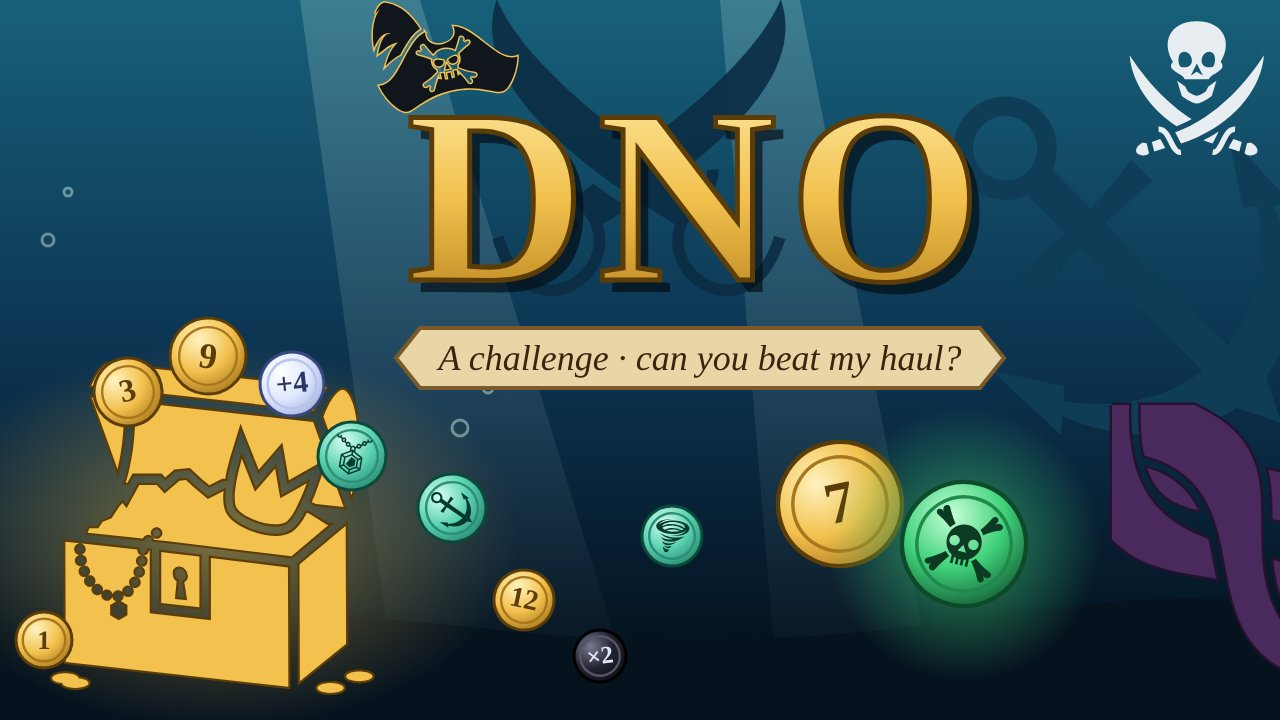
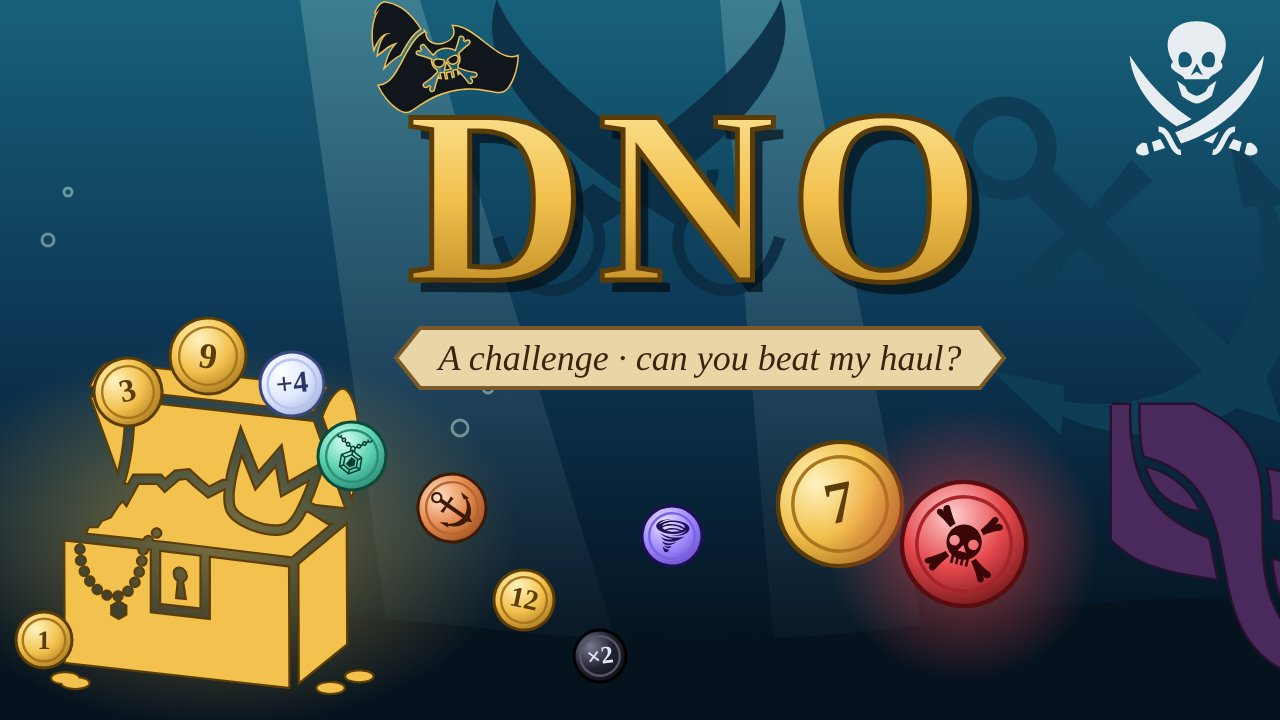
Сборка: красная проклятая монета

Changed region(s): [[0.6562, 0.6111, 0.8438, 0.9167], [0.3125, 0.6417, 0.4062, 0.7639], [0.5, 0.7028, 0.5625, 0.7944]]

diff --git a/assets/index-CikxutIh.css b/assets/index-CikxutIh.css
@@ -1,0 +1,1 @@
+:root{--deep:#061a2b;--mid:#0c3350;--sea:#17607a;--foam:#e8f4f2;--muted:#8fb3c4;--gold:#f2c14e;--gold-dark:#9c6a14;--curse:#e5484d;--cursed-coin:#e5484d;--pearl:#dfe7ff;--action:#5ad1b0;--anchor:#e38a4f;--whirl:#a28bff;--tentacle:#d65c9e;--panel:#ffffff0d;--line:#ffffff17;--lightningcss-light: ;--lightningcss-dark:initial;color-scheme:dark}*{box-sizing:border-box}html{-webkit-text-size-adjust:100%}body{background:linear-gradient(180deg, var(--mid), var(--deep) 70%);min-height:100dvh;color:var(--foam);-webkit-tap-highlight-color:transparent;margin:0;font:15px/1.4 system-ui,-apple-system,Segoe UI,Roboto,sans-serif}#app{max-width:480px;padding:12px 16px calc(16px + env(safe-area-inset-bottom));flex-direction:column;gap:10px;min-height:100dvh;margin:0 auto;display:flex}.icon{vertical-align:-.2em;flex:none;width:1.15em;height:1.15em}header{justify-content:space-between;align-items:center;gap:8px;display:flex}header .meta{text-align:right;white-space:nowrap;text-overflow:ellipsis;min-width:0;margin-left:auto;overflow:hidden}h1{flex:none}button.sound{border:1px solid var(--line);background:0 0;border-radius:10px;flex:none;width:36px;min-height:36px;padding:0;font-size:16px}h1{letter-spacing:1px;color:var(--gold);align-items:center;gap:6px;margin:0;font:700 20px/1 Georgia,Times New Roman,serif;display:flex}h2{color:var(--gold);margin:4px 0 0;font:700 20px/1.2 Georgia,Times New Roman,serif}h3{color:var(--muted);margin:6px 0 0;font-size:15px;font-weight:600}.meta{color:var(--muted);margin:0;font-size:13px}.center{text-align:center;width:100%}.rules{color:var(--muted);margin:0;font-size:14px}.hero{aspect-ratio:16/9;object-fit:cover;width:calc(100% + 32px);height:auto;margin:-12px -16px 0;display:block;-webkit-mask-image:linear-gradient(#000 75%,#0000);mask-image:linear-gradient(#000 75%,#0000)}.card-box{background:var(--panel);border:1px solid var(--line);border-radius:16px;flex-direction:column;gap:10px;padding:14px;display:flex}.card-box p{color:var(--muted);margin:0}.welcome{background:#f2c14e12;border-color:#f2c14e80}button.daily{text-align:left;background:linear-gradient(135deg, #f7d77a, var(--gold) 50%, #d9a63a);align-items:center;gap:12px;min-height:64px;padding:10px 16px;display:flex}button.daily .icon{width:34px;height:34px;color:var(--deep)}button.daily span{flex-direction:column;display:flex}button.daily small{opacity:.8;font-size:12px;font-weight:500}.links{justify-content:center;gap:18px;display:flex}button.link{min-height:40px;color:var(--muted);text-underline-offset:3px;background:0 0;flex:none;padding:0 4px;font-size:14px;font-weight:500;text-decoration:underline}.seat{background:var(--panel);border:1px solid var(--line);border-radius:12px;padding:8px 10px;transition:border-color .2s,opacity .2s;position:relative}.seat.active{border-color:var(--gold);box-shadow:0 0 0 1px #f2c14e59,0 0 18px #f2c14e26}.seat.out{opacity:.72}.seat.cursed{border-color:var(--curse)}.seat.me{background:#f2c14e14}.seat-head{justify-content:space-between;align-items:center;gap:8px;font-size:14px;display:flex}.seat-head b{text-overflow:ellipsis;white-space:nowrap;align-items:center;gap:4px;min-width:0;font-weight:600;display:flex;overflow:hidden}.icon.ava{width:22px;height:22px;color:var(--foam);background:#ffffff1a;border-radius:50%;flex:none;padding:2px}.seat.cursed .icon.ava{color:var(--curse)}.status{color:var(--muted);font-size:12px}.score{flex:none;align-items:center;gap:8px;display:flex}.round{color:var(--action);font-variant-numeric:tabular-nums;font-size:13px;font-weight:600}.round.bad{color:var(--curse)}.total{min-width:44px;color:var(--gold);font-variant-numeric:tabular-nums;justify-content:flex-end;align-items:center;gap:3px;font-weight:700;display:inline-flex}.total .icon{width:14px;height:14px}.react{pointer-events:none;font-size:26px;animation:2.2s ease-out forwards pop;position:absolute;top:-14px;right:10px}@keyframes pop{0%{opacity:0;transform:scale(.4)translateY(8px)}12%{opacity:1;transform:scale(1.15)}80%{opacity:1}to{opacity:0;transform:translateY(-16px)}}.cards{flex-wrap:wrap;gap:5px;min-height:32px;margin-top:6px;display:flex}.card{color:#5c3d08;background:radial-gradient(circle at 35% 30%, #fff3c0, var(--gold) 45%, var(--gold-dark));border-radius:16px;flex:none;place-items:center;min-width:32px;height:32px;padding:0 7px;font:700 15px/1 Georgia,Times New Roman,serif;display:inline-grid;box-shadow:inset 0 0 0 2px #5c3d0859}.card .icon{width:18px;height:18px}.card.pearl{color:#2a3566;background:radial-gradient(circle at 35% 30%, #fff, var(--pearl) 50%, #9aa8d6);box-shadow:inset 0 0 0 2px #2a356640}.card.double{color:var(--pearl);background:radial-gradient(circle at 35% 30%,#6b6b80,#1c1c28 60%);box-shadow:inset 0 0 0 2px #dfe7ff59}.card.charm,.card.action{color:#063a2e;background:radial-gradient(circle at 35% 30%, #d6fff2, var(--action) 55%, #2a8f75)}.card.chest{color:#5c3d08}.card.ghost{color:var(--foam);box-shadow:inset 0 0 0 1px var(--line);background:#ffffff14}.card.dup{color:#fff0f0;background:radial-gradient(circle at 35% 30%, #ffd0d0, var(--cursed-coin) 40%, #5a0d10);box-shadow:0 0 10px #e5484da6}.card.fresh{animation:.35s ease-out drop}@keyframes drop{0%{opacity:0;transform:translateY(-14px)scale(1.25)}}.feed{flex-direction:column;justify-content:flex-end;gap:2px;min-height:4.6em;margin:0;padding:0;list-style:none;display:flex}.feed li{color:var(--muted);opacity:.65;align-items:center;gap:6px;font-size:13px;display:flex}.feed li.last{opacity:1;color:var(--foam)}.feed li.bad{color:#ff9a9d}.feed li.good .icon,.feed li.action .icon{color:var(--action)}.feed li.bad .icon{color:var(--curse)}.coach{background:#5ad1b01a;border:1px solid #5ad1b073;border-radius:14px;align-items:flex-start;gap:10px;padding:10px 12px;animation:.3s ease-out drop;display:flex}.coach .icon{width:30px;height:30px;color:var(--action)}.coach p{margin:0;font-size:14px}.hud{color:var(--muted);justify-content:space-between;font-size:13px;display:flex}.hud strong{color:var(--foam);font-variant-numeric:tabular-nums}.hud .risk-high{color:var(--curse)}.toast{text-align:center;color:var(--gold);min-height:20px;font-weight:600}.toast:empty{min-height:0}.controls{flex-wrap:wrap;gap:8px;margin-top:auto;display:flex}.controls.stack{flex-direction:column}.controls>p{text-align:center;width:100%;margin:0}.row{gap:8px;width:100%;display:flex}.row.wrap{flex-wrap:wrap}.row.wrap button{flex:30%;min-height:44px;padding:0 6px;font-size:15px}button{min-height:52px;font:inherit;cursor:pointer;background:var(--gold);color:var(--deep);border:0;border-radius:14px;flex:1;justify-content:center;align-items:center;gap:8px;padding:0 12px;font-size:17px;font-weight:600;transition:transform 80ms,opacity .2s;display:inline-flex}button:active:not(:disabled){transform:scale(.97)}button.secondary{background:var(--mid);color:var(--foam);border:1px solid var(--muted)}button:disabled{opacity:.35;cursor:default}button:focus-visible{outline:3px solid var(--foam);outline-offset:2px}button.pulse{animation:1.6s ease-in-out infinite pulse}@keyframes pulse{0%,to{box-shadow:0 0 #f2c14e8c}50%{box-shadow:0 0 0 7px #f2c14e00}}.choose,.result-line{justify-content:center;align-items:center;gap:6px;width:100%;margin:0;font-weight:600;display:flex}.result-line{color:var(--gold);font-size:17px}.reacts{justify-content:space-between;gap:4px;display:flex}button.emoji{background:var(--panel);border:1px solid var(--line);min-height:40px;padding:0;font-size:20px}.join{gap:8px;width:100%;display:flex}.join button{flex:1}.join input{border:1px solid var(--muted);min-width:0;min-height:52px;color:var(--foam);font:inherit;text-transform:uppercase;letter-spacing:2px;background:#ffffff0f;border-radius:14px;flex:1.4;padding:0 14px;font-size:17px}.join input::placeholder{text-transform:none;letter-spacing:0;color:var(--muted)}.code{color:var(--gold);letter-spacing:2px}#timer{color:var(--gold);font-weight:600}.howto{flex-direction:column;gap:10px;margin:0;padding:0;list-style:none;display:flex}.howto li{align-items:center;gap:12px;font-size:14px;display:flex}.result{text-align:center;padding:18px 0 6px}.result p{margin:0}.result .big{color:var(--gold);justify-content:center;align-items:center;gap:10px;font:700 56px/1.1 Georgia,Times New Roman,serif;display:flex}.result .big .icon{width:44px;height:44px}.board{flex-direction:column;gap:4px;margin:0;padding:0;list-style:none;display:flex}.board li{background:var(--panel);border-radius:10px;align-items:center;gap:10px;padding:6px 10px;display:flex}.board li.me{background:#f2c14e24}.board .pos{width:20px;color:var(--muted);font-variant-numeric:tabular-nums}.board .who{text-overflow:ellipsis;white-space:nowrap;flex:1;align-items:center;gap:6px;display:flex;overflow:hidden}.board b{color:var(--gold);font-variant-numeric:tabular-nums}.seat.cursed .card:not(.dup){opacity:.38;filter:grayscale(.7)}.seat.just-cursed{animation:.5s ease-in-out seat-shake,.9s ease-out curse-flash}.seat.just-cursed .card:not(.dup){animation:.9s cubic-bezier(.5,0,.8,.4) both sink}.seat.just-cursed .card:not(.dup):nth-child(2n){animation-delay:80ms}.seat.just-cursed .card:not(.dup):nth-child(3n){animation-delay:.15s}.seat.just-cursed .card.dup{animation:.9s ease-out curse-glow}.table.quake{animation:.45s ease-in-out quake}.seat.just-saved{animation:.9s ease-out saved-flash}.seat.just-chest{animation:1.1s ease-out chest-flash}@keyframes seat-shake{0%,to{transform:translate(0)}20%{transform:translate(-6px)}40%{transform:translate(5px)}60%{transform:translate(-3px)}80%{transform:translate(2px)}}@keyframes curse-flash{0%{background-color:#e5484d59;box-shadow:0 0 #e5484d00}30%{box-shadow:0 0 22px 2px #e5484d8c}to{box-shadow:0 0 #e5484d00}}@keyframes sink{0%{opacity:1;filter:none;transform:translateY(0)}40%{opacity:.6;transform:translateY(10px)}to{opacity:.38;filter:grayscale(.7);transform:translateY(0)}}@keyframes curse-glow{0%{transform:scale(1.6);box-shadow:0 0 28px 8px #e5484de6}to{transform:scale(1)}}@keyframes quake{0%,to{transform:translate(0)}25%{transform:translate(-4px,2px)}50%{transform:translate(4px,-2px)}75%{transform:translate(-2px,1px)}}@keyframes saved-flash{0%{border-color:var(--action);box-shadow:0 0 24px 4px #5ad1b0b3}to{box-shadow:none}}@keyframes chest-flash{0%{border-color:var(--gold);box-shadow:0 0 30px 6px #f2c14ecc}to{box-shadow:none}}@media (prefers-reduced-motion:reduce){*,:before,:after{transition:none!important;animation:none!important}}.hud.wide{justify-content:flex-start;align-items:center;gap:8px}.hud .mult{color:var(--gold)}.card.mult{color:#5c3d08;background:radial-gradient(circle at 35% 30%,#fff3c0,#f7d77a 45%,#d9a63a);font-size:12px}.setting{flex-direction:column;gap:6px;display:flex}.setting>span{color:var(--muted);font-size:13px}.chips{gap:6px;display:flex}button.chip{background:var(--panel);min-height:44px;color:var(--foam);border:1px solid var(--line);padding:0 8px;font-size:15px}button.chip.on{background:var(--gold);color:var(--deep);border-color:var(--gold)}button.chip:disabled{opacity:1}button.chip:disabled:not(.on){opacity:.45}button.kick{background:var(--panel);width:32px;min-height:32px;color:var(--muted);border:1px solid var(--line);border-radius:10px;flex:none;padding:0;font-size:18px}.table{flex-direction:column;gap:10px;display:flex}.table.compact{gap:5px}.table.compact .seat{grid-template-columns:minmax(0,1fr) auto;grid-template-areas:"head head""cards cards";padding:5px 8px;display:grid}.table.compact .seat-head{grid-area:head;font-size:13px}.table.compact .cards{grid-area:cards;gap:3px;min-height:24px;margin-top:3px}.table.compact .card{border-radius:12px;min-width:24px;height:24px;padding:0 5px;font-size:12px}.table.compact .card .icon{width:14px;height:14px}.table.compact .cards:empty{display:none}.table.compact .status{font-size:11px}.table.dense{gap:4px}.table.dense .seat{padding:3px 8px}.table.dense .cards{margin-top:2px}.table.dense~.feed{min-height:0}.table.dense~.feed li:not(:nth-last-child(-n+2)){display:none}.coach.tip{background:#f2c14e14;border-color:#f2c14e99;align-items:center;padding:8px 10px;animation:none}.coach.tip p{font-size:13px}.coach.tip .icon{width:24px;height:24px;color:var(--gold)}.coach.tip button.link{min-height:36px;color:var(--gold)}.seat.decided .seat-head b:after{content:" ✓";color:var(--action)}.streak{color:var(--gold);font-weight:600;margin-top:6px!important}.board .flame{color:var(--muted);font-size:12px}button.chest-btn{font-variant-numeric:tabular-nums;min-height:36px;color:var(--gold);border:1px solid var(--line);background:0 0;border-radius:10px;flex:none;gap:4px;padding:0 8px;font-size:14px}.sheet-back{z-index:20;background:#020a1299;position:fixed;inset:0}.sheet{z-index:21;border:1px solid var(--line);width:min(480px,100%);max-height:85dvh;padding:14px 16px calc(16px + env(safe-area-inset-bottom));background:#0f2c44;border-radius:18px 18px 0 0;flex-direction:column;gap:8px;display:flex;position:fixed;bottom:0;left:50%;overflow-y:auto;transform:translate(-50%);box-shadow:0 -10px 30px #00000080}.sheet-head{justify-content:space-between;align-items:center;display:flex}.sheet-head h3{color:var(--gold);align-items:center;gap:6px;margin:0;display:flex}.sheet h4,.chest-box h4{color:var(--muted);margin:4px 0 0;font-size:12px;font-weight:600}.chest-grid{grid-template-columns:repeat(6,1fr);gap:6px;margin:0;padding:0;list-style:none;display:grid}.chest-grid li{border-radius:10px;flex-direction:column;align-items:center;gap:2px;padding:4px 0;display:flex}.chest-grid small{color:var(--muted);font-variant-numeric:tabular-nums;font-size:11px}.chest-grid li.danger{background:#e5484d29;box-shadow:inset 0 0 0 1px #e5484d99}.chest-grid li.danger small{color:#ff9a9d;font-weight:600}.chest-grid li.empty{opacity:.35}.chest-box{flex-direction:column;gap:6px;display:flex}.icon.inline{color:var(--gold);vertical-align:-.25em;width:1.2em;height:1.2em}button.chest-btn .icon{width:20px;height:20px}.card.action.used{opacity:.75;outline-offset:1px;outline:1px dashed #5ad1b0b3;box-shadow:inset 0 0 0 2px #063a2e80}.card.action.hit{color:var(--action);box-shadow:inset 0 0 0 2px var(--action);background:#5ad1b01f}.card.action.lost{opacity:.55;filter:grayscale(.6);position:relative}.card.action.lost:after{content:"";background:var(--curse);border-radius:2px;height:3px;position:absolute;top:50%;left:12%;right:12%;transform:rotate(-45deg)}.seat.hit{border-color:var(--action);box-shadow:0 0 0 1px var(--action), 0 0 14px #5ad1b059}.hit-badge{white-space:nowrap;text-overflow:ellipsis;color:#063a2e;background:var(--action);pointer-events:none;z-index:2;border-radius:999px;align-items:center;gap:4px;max-width:70%;padding:2px 8px 2px 4px;font-size:12px;font-weight:700;display:inline-flex;position:absolute;top:-11px;left:10px;overflow:hidden}.hit-badge.new{animation:.3s ease-out hit-in}.hit-badge .icon{flex:none;width:16px;height:16px}@keyframes hit-in{0%{opacity:0;transform:scale(.6)}to{opacity:1;transform:scale(1)}}.card.action.anchor{color:#3d1906;background:radial-gradient(circle at 35% 30%, #ffe0c8, var(--anchor) 55%, #8f4317)}.card.action.whirl{color:#1d0f52;background:radial-gradient(circle at 35% 30%, #ece6ff, var(--whirl) 55%, #5b3fc4)}.card.action.anchor.used{outline-color:#e38a4fbf;box-shadow:inset 0 0 0 2px #3d190673}.card.action.whirl.used{outline-color:#a28bffbf;box-shadow:inset 0 0 0 2px #1d0f5273}.card.action.whirl.hit{color:var(--whirl);box-shadow:inset 0 0 0 2px var(--whirl);background:#a28bff24}.feed li .icon.k-anchor{color:var(--anchor)}.feed li .icon.k-whirl{color:var(--whirl)}.hit-badge.anchor{background:var(--anchor);color:#3d1906}.hit-badge.whirl{background:var(--whirl);color:#1d0f52}.seat.hit.hit-anchor{border-color:var(--anchor);box-shadow:0 0 0 1px var(--anchor), 0 0 14px #e38a4f59}.seat.hit.hit-whirl{border-color:var(--whirl);box-shadow:0 0 0 1px var(--whirl), 0 0 14px #a28bff59}.hero-wrap{position:relative}button.profile{min-height:44px;color:var(--foam);border:1px solid var(--line);background:#061a2bb8;border-radius:14px;flex-direction:column;align-items:center;gap:2px;padding:6px 8px;display:flex;position:absolute;top:0;right:0}button.profile .icon.ava{width:40px;height:40px;color:var(--gold);box-shadow:inset 0 0 0 2px var(--gold);background:#f2c14e24;padding:5px}button.profile small{color:var(--muted);font-size:11px;font-weight:600}.ava-grid{grid-template-columns:repeat(5,1fr);gap:8px;display:grid}button.ava-pick{aspect-ratio:1;background:var(--panel);border:1px solid var(--line);border-radius:12px;place-items:center;min-height:44px;padding:6px;display:grid}button.ava-pick .icon.ava{background:0 0;width:100%;height:100%;padding:0}button.ava-pick.on{border-color:var(--gold);background:#f2c14e24}button.ava-pick.on .icon.ava{color:var(--gold)}.sheet .meta .icon.ava{vertical-align:middle;width:20px;height:20px}.mode-row{grid-template-columns:1fr 1fr;gap:8px;display:grid}button.mode{text-align:left;align-items:center;gap:8px;min-height:56px;padding:8px 10px;display:flex}button.mode .icon{width:26px;height:26px;color:var(--gold);flex:none}button.mode span{flex-direction:column;min-width:0;line-height:1.2;display:flex}button.mode b{font-size:14px}button.mode small{color:var(--muted);font-size:11px;font-weight:500}.stars{color:var(--gold);letter-spacing:1px}.stars .off{color:#ffffff2e}.big-stars{font-size:40px;line-height:1}.level-grid{grid-template-columns:repeat(5,1fr);gap:8px;display:grid}button.level{background:var(--panel);border:1px solid var(--line);min-height:64px;color:var(--foam);border-radius:12px;flex-direction:column;align-items:center;gap:2px;padding:6px 2px;display:flex}button.level b{font-size:16px}button.level .icon{width:16px;height:16px;color:var(--muted)}button.level .stars{font-size:11px}button.level.done{border-color:var(--gold)}button.level.locked{opacity:.35}.goal-line{color:var(--foam);flex-wrap:wrap;align-items:center;gap:4px 8px;margin:0;font-size:13px;display:flex}.goal-line .icon{width:16px;height:16px;color:var(--gold)}.goal-line .thresholds{color:var(--gold);font-variant-numeric:tabular-nums;margin-left:auto}.goal-line.bad,.result .bad{color:var(--curse)}.legend .icon{vertical-align:-2px;width:14px;height:14px}form.nick{align-items:flex-end;gap:8px;display:flex}form.nick label{color:var(--muted);flex-direction:column;flex:1;gap:4px;font-size:12px;display:flex}form.nick input{min-height:44px}form.nick button{min-height:44px;padding:0 14px}button.profile small{text-overflow:ellipsis;white-space:nowrap;max-width:76px;overflow:hidden}.hud .one-in{color:var(--muted);font-size:12px}.card.action.tentacle{color:#3d0a26;background:radial-gradient(circle at 35% 30%, #ffd6ec, var(--tentacle) 55%, #8a2560)}.card.action.tentacle.used{outline-color:#d65c9ebf;box-shadow:inset 0 0 0 2px #3d0a2673}.card.buoy{color:#5a0b0b;background:repeating-conic-gradient(#f4f4f4 0 45deg, #e2574c 45deg 90deg);box-shadow:inset 0 0 0 3px #ffffffd9}.card.buoy .icon{background:#ffffffd9;border-radius:50%;padding:2px}.card.safe{outline-offset:1px;outline:2px dashed #f4f4f4d9}.seat.cursed .card.safe,.seat.cursed .card.buoy{opacity:1;filter:none}.seat.just-cursed .card.safe,.seat.just-cursed .card.buoy{animation:none}.feed li .icon.k-tentacle{color:var(--tentacle)}.feed li .icon.k-buoy{color:#ff8a80}.hit-badge.tentacle{background:var(--tentacle);color:#3d0a26}.seat.hit.hit-tentacle{border-color:var(--tentacle);box-shadow:0 0 0 1px var(--tentacle), 0 0 14px #d65c9e59}

diff --git a/index.html b/index.html
@@ -4,8 +4,8 @@
     <meta charset="utf-8" />
     <meta name="viewport" content="width=device-width, initial-scale=1, viewport-fit=cover" />
     <title>Дно</title>
-    <script type="module" crossorigin src="./assets/index-Cp0GqiKc.js"></script>
-    <link rel="stylesheet" crossorigin href="./assets/index-BBFxTLX7.css">
+    <script type="module" crossorigin src="./assets/index-aq4qDFuq.js"></script>
+    <link rel="stylesheet" crossorigin href="./assets/index-CikxutIh.css">
   </head>
   <body>
     <main id="app"></main>

diff --git a/README.md b/README.md
@@ -1,5 +1,5 @@
 # Dno — сборка
 
 Собранный клиент игры «Дно» / Dno для Telegram Mini App (t.me/dnogamebot/play).
-Исходники — в приватном репозитории; здесь только сборка. Коммит исходников: a7d2cdb.
+Исходники — в приватном репозитории; здесь только сборка. Коммит исходников: de3db3a.
 Иконки — game-icons.net, CC BY 3.0, авторы в CREDITS.md.
